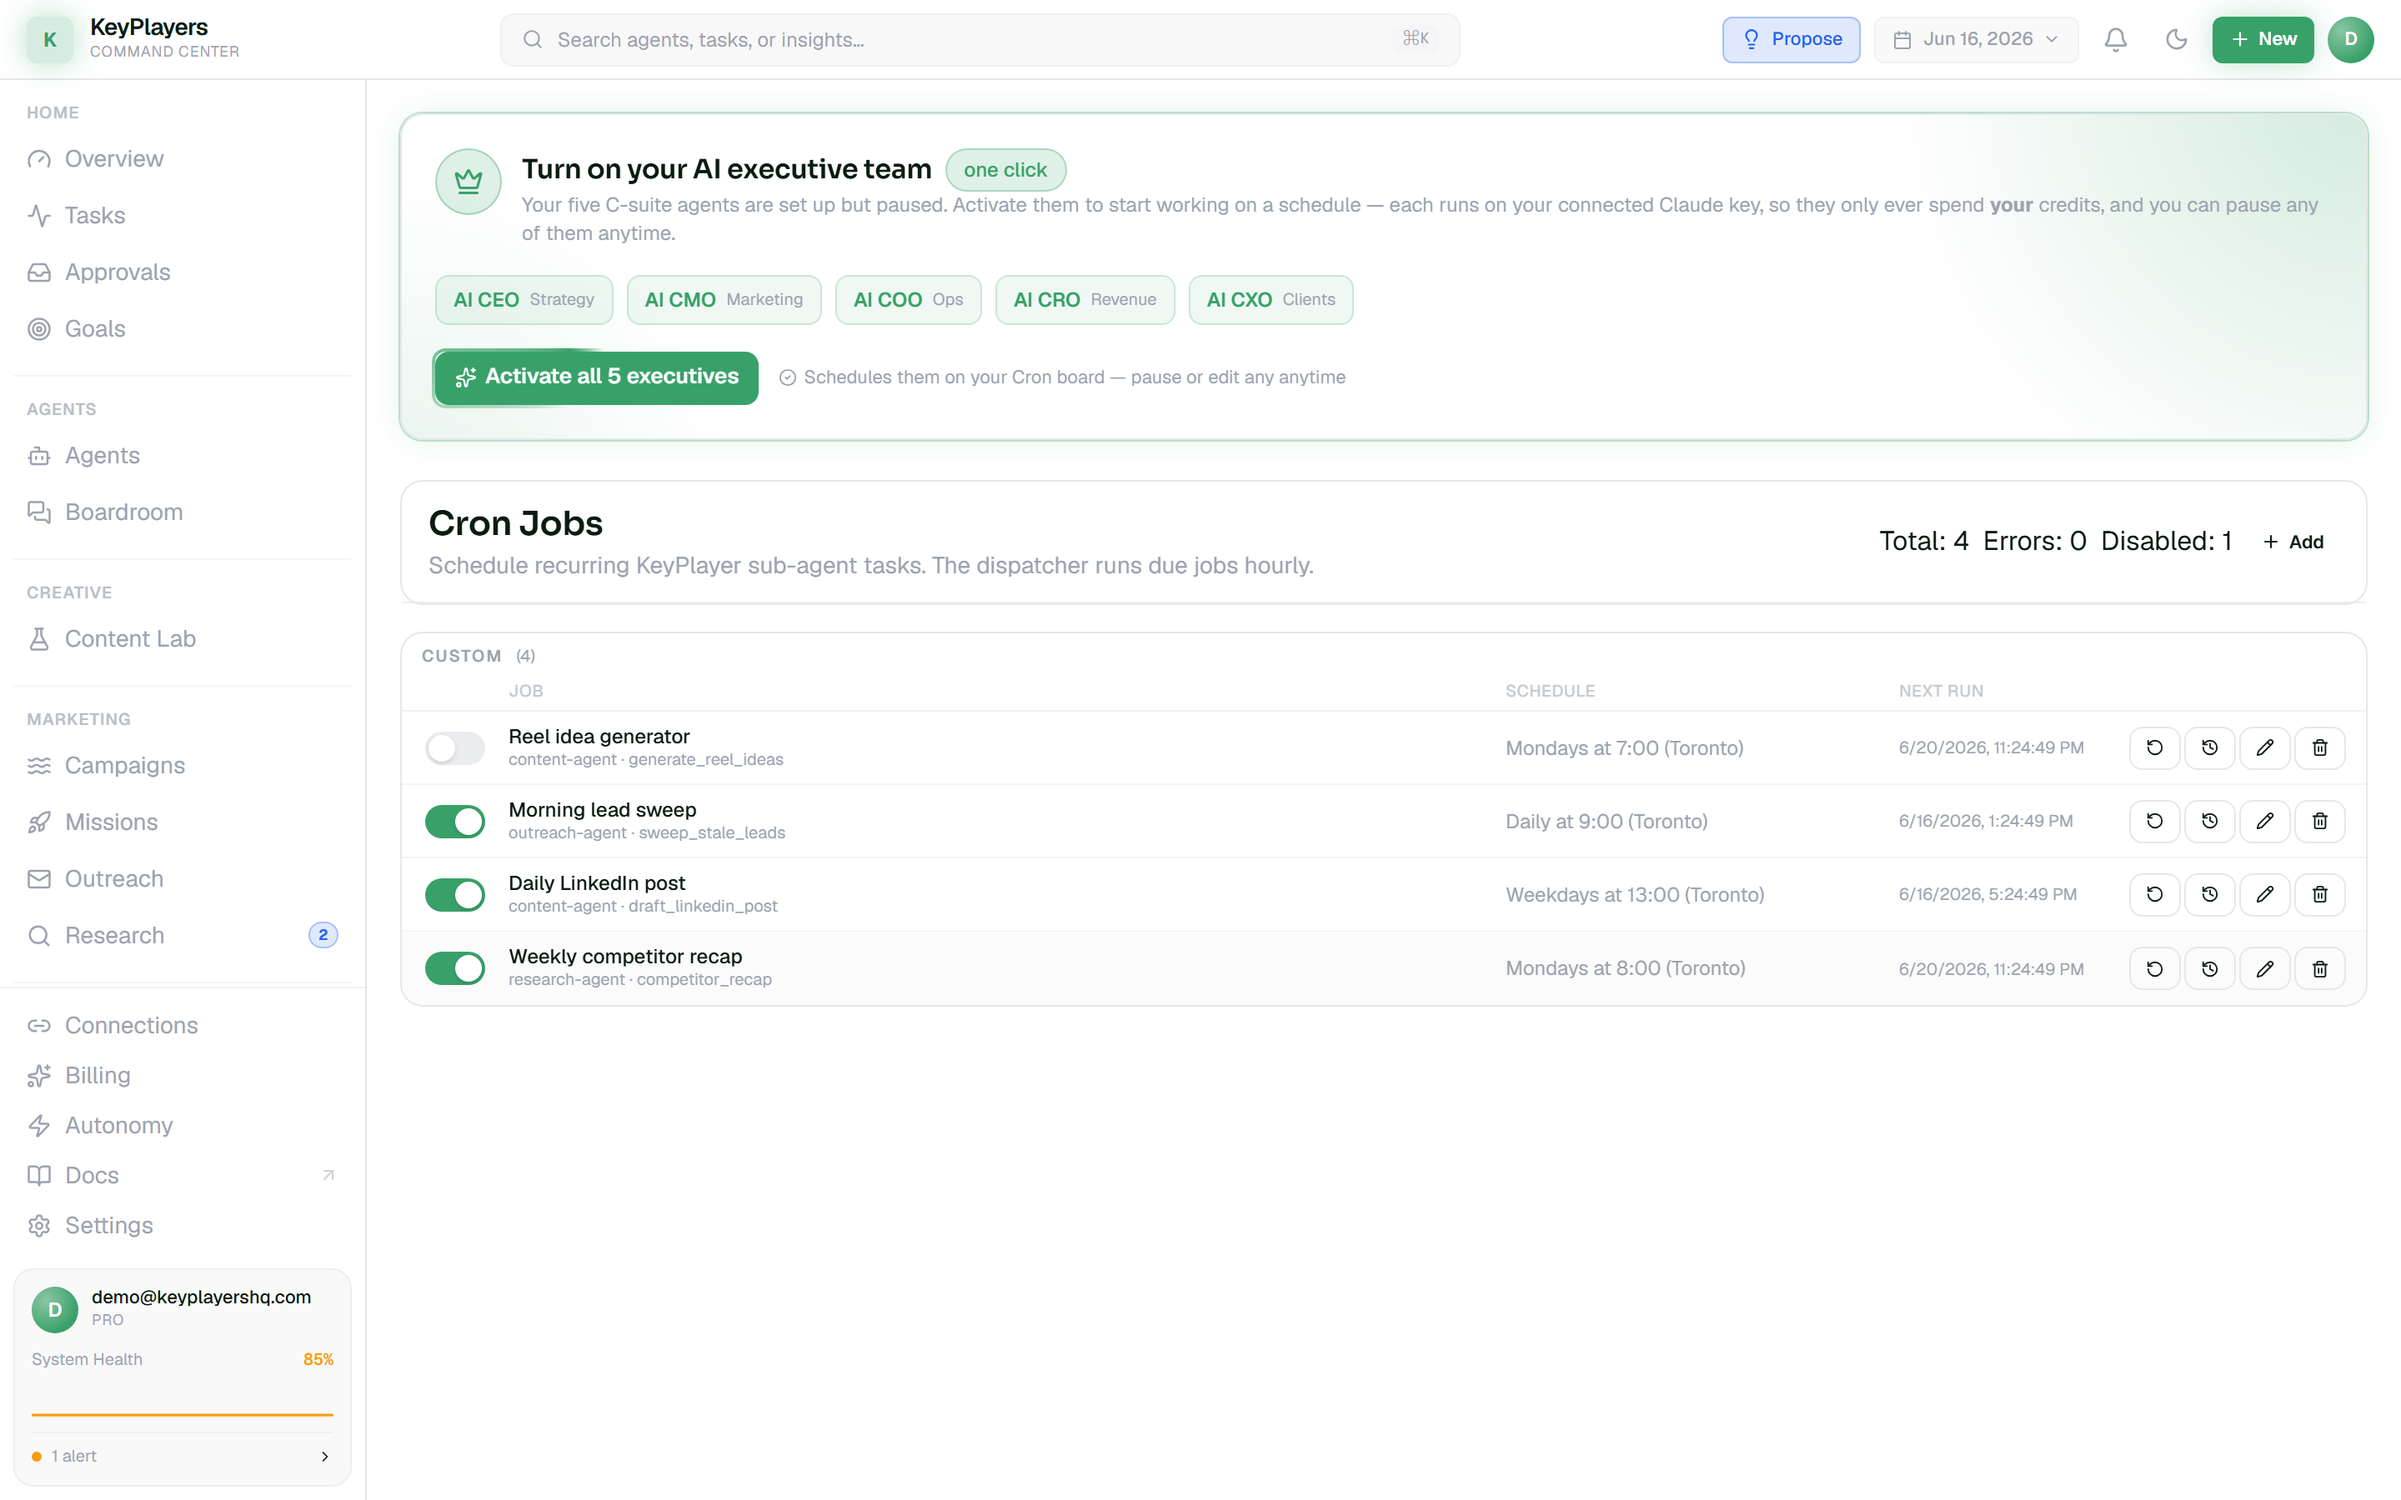
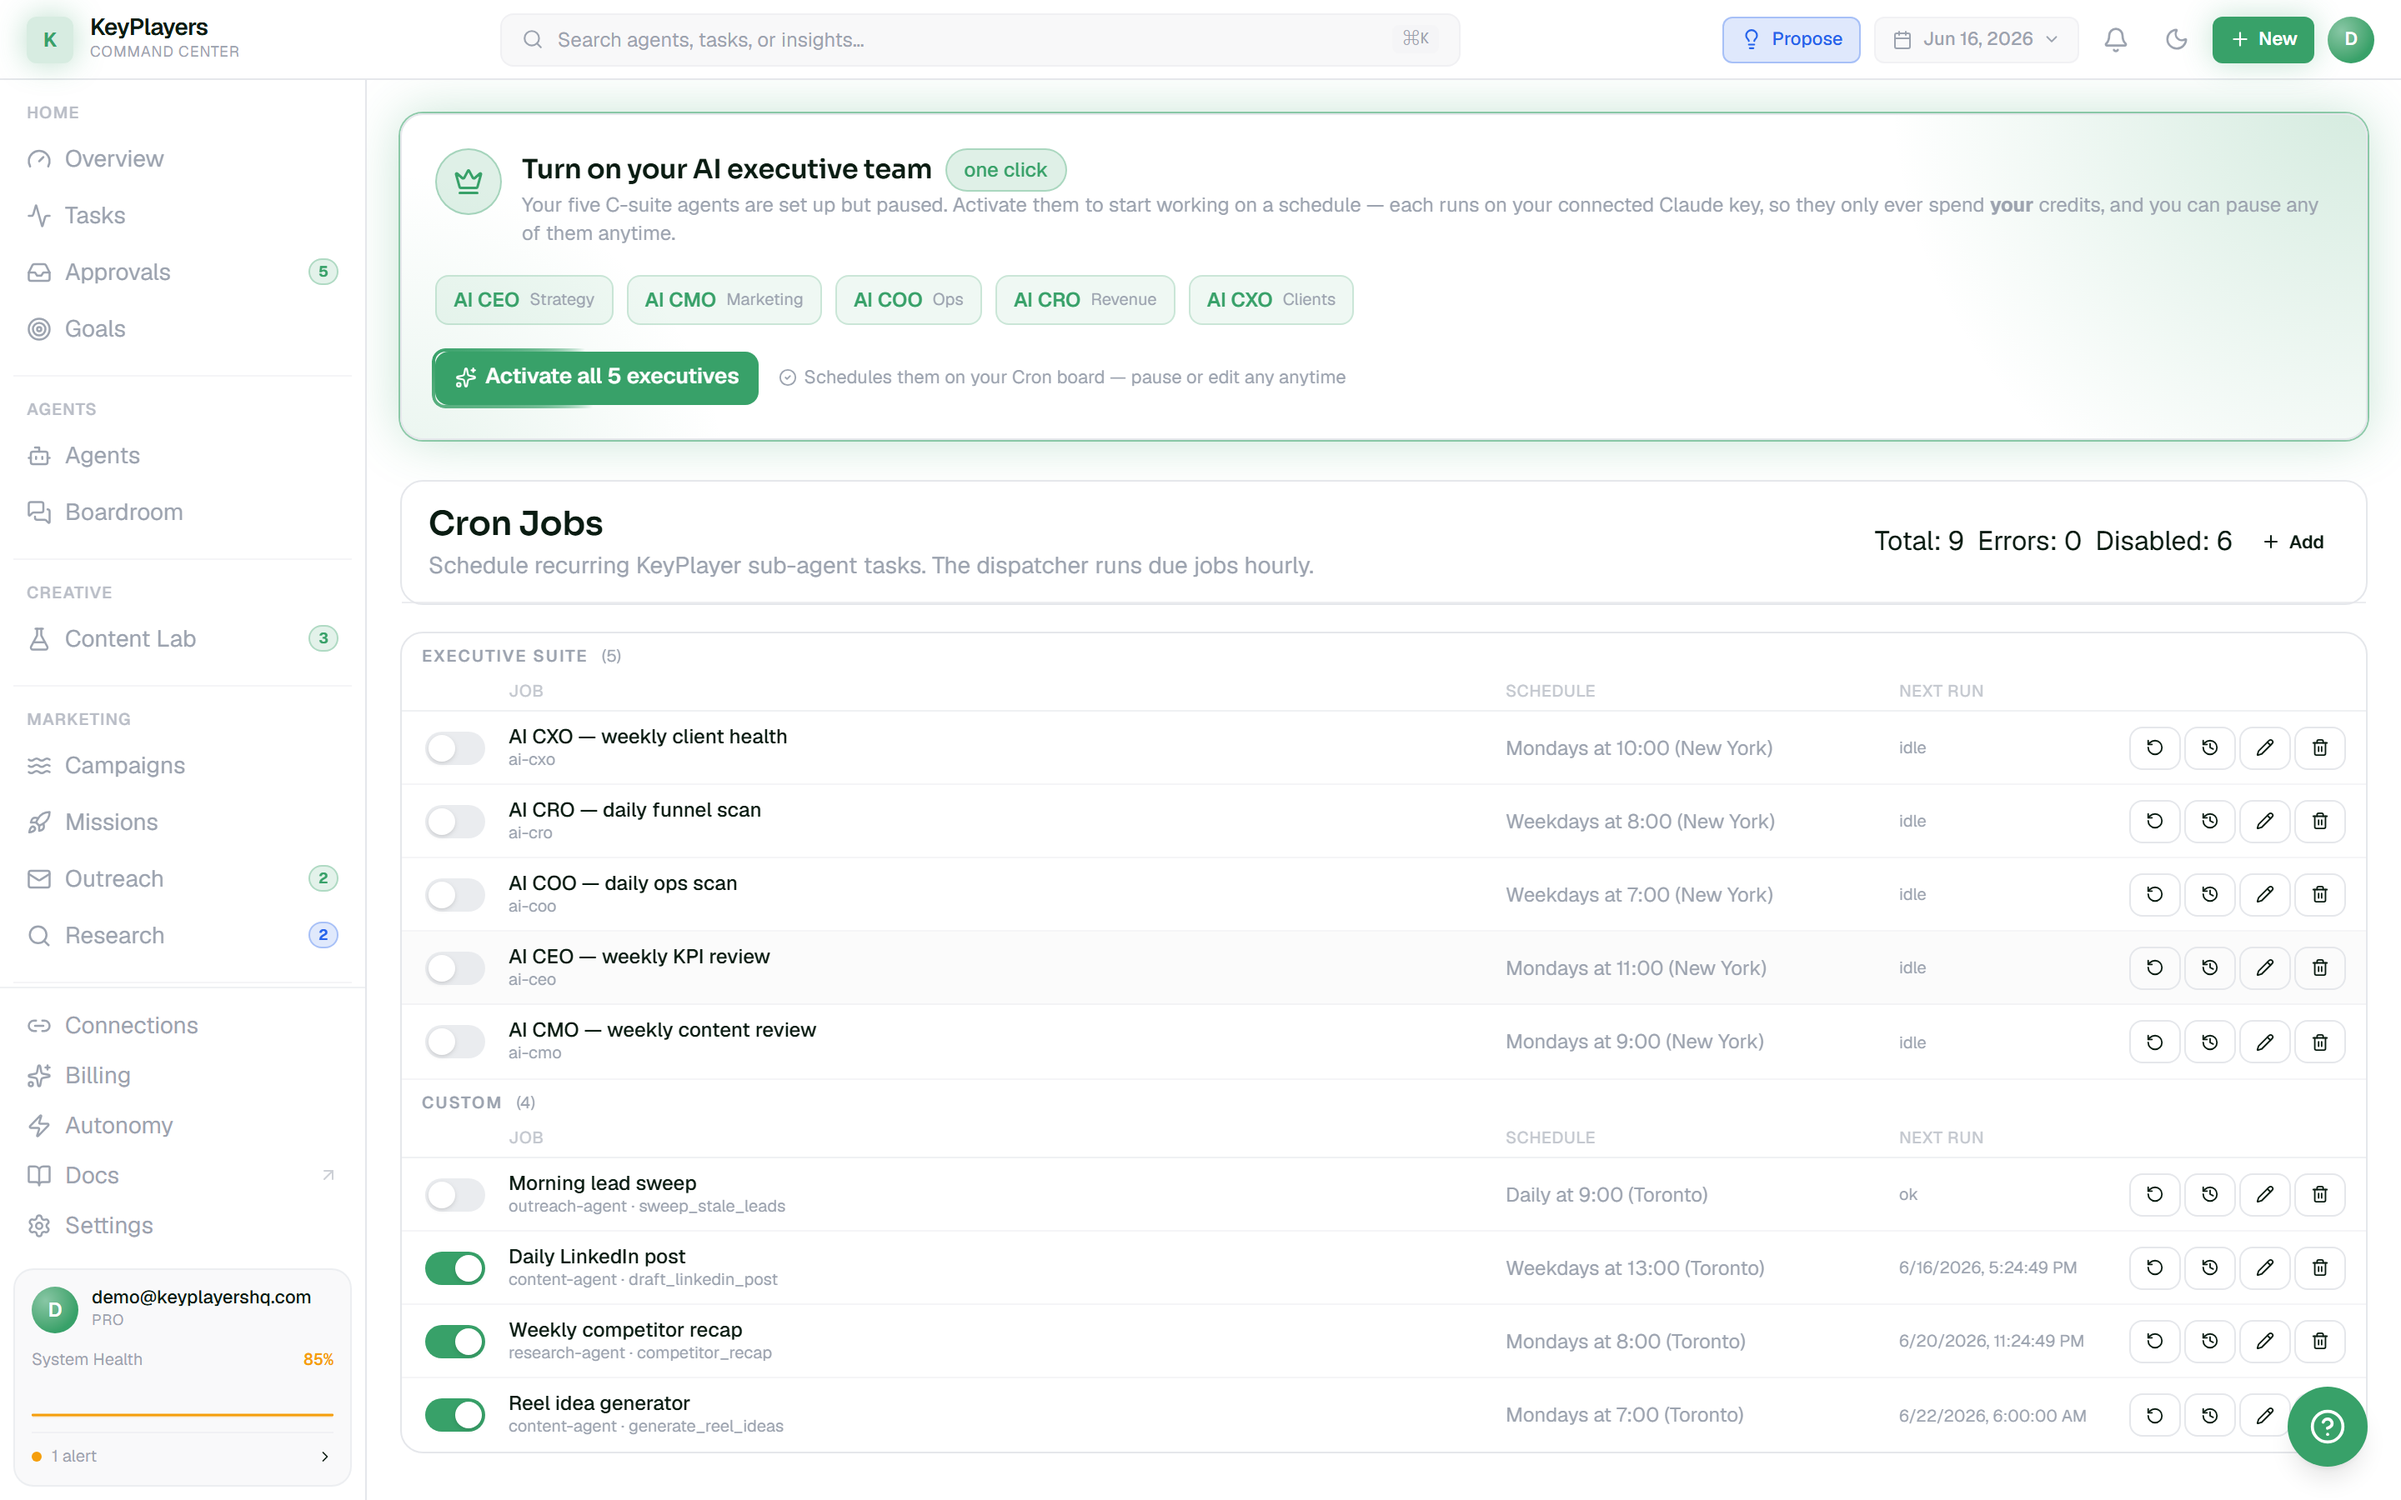
docs+demo: seed org chart (execs)+Learning+Genes+exec crons for demo; add Strategy Genes & Learning docs; capture org-chart, learning, genes, populated cron, clean script studio + green-label teleprompter

diff --git a/src/lib/docs-nav.ts b/src/lib/docs-nav.ts
@@ -48,6 +48,8 @@ export const DOCS_NAV: DocNavGroup[] = [
     group: 'Setup & control',
     items: [
       { slug: 'drafts', title: 'Drafts & Approvals', blurb: 'The approval queue — nothing ships without you; publishing is real' },
+      { slug: 'learning', title: 'Learning', blurb: 'How every agent run is scored and the squad leans toward what works' },
+      { slug: 'strategy-genes', title: 'Strategy Genes', blurb: 'The plain-English lessons your agents learn — review, approve, and apply them' },
       { slug: 'cron', title: 'Scheduled Jobs', blurb: 'Run agents on a recurring schedule, in plain English' },
       { slug: 'usage', title: 'Usage & Spend', blurb: 'Track what your agents cost and set a daily token budget' },
       { slug: 'your-data', title: 'Your Data', blurb: 'Export everything your workspace created — your data is yours' },

diff --git a/docs/strategy-genes.md b/docs/strategy-genes.md
@@ -1,0 +1,66 @@
+# Strategy Genes
+
+As your agents work, they don't just produce — they *learn*. **Strategy Genes** are the lessons they've picked up about what works for **this** business, written in plain English you can read at a glance: *"Lead with the number," "Hook in the first sentence," "Keep CTAs to one line."* Each gene is a small, reusable rule, and the ones you approve get woven into your agents' instructions so the whole squad applies the lesson — not just the agent that discovered it.
+
+![Strategy Genes — the lessons your agents have learned](images/genes-1.png)
+
+Strategy Genes is a **Pro** feature, found at **Genes** in the left navigation.
+
+---
+
+## What a gene is
+
+A gene is one short, plain-language lesson about what tends to win for your business. Every gene carries a little context so you can judge it:
+
+- **The lesson** — the rule itself, in a sentence (e.g. *"Open with a concrete result, not a question"*).
+- **Status** — where the gene is in its life: **proposed**, **active**, or **retired** (more on these below).
+- **Track record** — how it's actually performed: how many times it's been **tried**, how many of those were **wins**, and its **mean reward** (the average score of the runs that used it).
+- **Source** — where it came from: **you wrote it**, or the [learning](./learning.md) loop **proposed it** after noticing a pattern in your results.
+
+Because every gene shows its track record, you're never asked to trust a rule blind — you can see whether it's earning its place.
+
+---
+
+## Proposed vs. active
+
+The most important distinction on the page is between a gene that's merely *suggested* and one that's actually *in use*:
+
+- **Proposed** — a candidate lesson, waiting for you. It came either from you or from the learning loop spotting a pattern, but it is **not** influencing any agent yet. Proposed genes are inert until you say otherwise.
+- **Active** — an approved gene that **is** being applied. Active genes get injected into the relevant agents' instructions, so the next time those agents run, they follow the lesson automatically.
+- **Retired** — a gene you've taken out of rotation. It stops influencing agents but stays on record, so you keep the history (and can bring it back later).
+
+Nothing a gene "learns" reaches your agents until **you** promote it from proposed to active. You're always the one who decides which lessons the squad adopts.
+
+---
+
+## How it works
+
+1. **Lessons accumulate.** As runs complete and get scored by the [learning](./learning.md) loop, patterns emerge — and the strongest ones surface as **proposed** genes. You can also write your own at any time.
+2. **You review.** Open **Genes** and read what's proposed. Each gene shows its track record so you can tell a real pattern from a fluke.
+3. **You approve the good ones.** Promote a proposed gene to **active** and it's immediately folded into the instructions of the agents it applies to.
+4. **The squad applies it.** From that point on, the relevant agents work with the lesson baked in — every researcher, writer, and outreach agent it touches.
+5. **You prune what stops working.** If an active gene's track record slips, **retire** it. The squad goes back to working without it on the next run.
+
+---
+
+## Staying in control
+
+Strategy Genes is built so the agents can suggest, but you decide. The safety controls:
+
+- **Approval required.** A proposed gene changes nothing until you make it active.
+- **Retire any time.** Pull an active gene out of rotation with one click; its lesson stops being injected on the next run.
+- **Master kill switch.** One toggle disables *all* gene influence at once — every agent immediately goes back to its base instructions, no matter how many genes are active.
+- **Revert.** Roll back to a previous state if a recent change didn't land the way you wanted.
+
+These work alongside the [autonomy gate](./concepts.md#the-autonomy-gate): autonomy controls how much agents can *do* on their own, while Strategy Genes controls what they've *learned* to do it better. Even at the same autonomy level, nothing an agent learns goes live without your sign-off.
+
+---
+
+## Good to know
+
+- **Start by reading, not approving.** Let a few proposed genes build a track record before you promote them — the tries/wins counts get more trustworthy with use.
+- **A gene is only as good as its record.** Lean on the **mean reward** and the **wins-out-of-tries** count, not just whether the lesson "sounds right."
+- **Write your own.** If you already know a rule that works for your brand, add it directly as a gene and make it active — you don't have to wait for the loop to discover it.
+- **Retire freely.** Retiring isn't deleting. The gene's history stays, and you can reactivate it later if conditions change.
+- **The kill switch is your panic button.** If results ever feel off and you suspect a learned rule, flip the master switch to take every gene out of the loop in one move, then re-enable the ones you trust.
+- **It's powered by Learning.** Strategy Genes is the visible, editable layer on top of the scoring engine described in [Learning](./learning.md) — that's where the patterns behind your proposed genes come from.

diff --git a/docs/learning.md b/docs/learning.md
@@ -1,0 +1,53 @@
+# Learning
+
+Your agents get better the more they work — and **Learning** is where you can see it happen. Every time an agent finishes a run, that run gets a **score**: did you approve it, how well did it perform, and how reliably did it run? Over time those scores add up into a track record for each agent, and the system leans toward the approaches that are working. It's a simple reward-based learning loop, and it's the engine behind [Strategy Genes](./strategy-genes.md).
+
+![Learning — how each agent is scored and improving over time](images/learning-1.png)
+
+Find it at **Learning** in the left navigation.
+
+---
+
+## How a run gets scored
+
+When an agent run completes, it earns a **reward** — a single score that rolls up three things:
+
+- **Did you approve it?** Work you approve scores higher than work you reject. Your decisions in [Drafts & Approvals](./drafts.md) are the strongest signal the system has — you're effectively teaching it what "good" looks like.
+- **How did it perform?** Where there's a measurable result — a draft that got published, a goal it moved forward — that feeds the score.
+- **How reliable was it?** A clean run that finished without errors scores better than one that stumbled, retried, or failed partway.
+
+You don't have to grade anything by hand. Approving and rejecting drafts as you normally would *is* the grading.
+
+---
+
+## What you see
+
+The Learning page turns those scores into a track record you can actually read:
+
+- **Runs scored** — how many completed runs have been graded.
+- **Mean reward** — the average score across them, so you can see the overall trend at a glance.
+- **By-role breakdown** — the same numbers split out per role, so you can tell which parts of your squad are pulling their weight and which need attention. A researcher and a content writer get judged on their own terms.
+
+Watching the mean reward climb over time is the clearest sign that the loop is doing its job — your agents are converging on what works for your business.
+
+---
+
+## How it improves the team
+
+Scoring isn't just a report card — it changes what happens next:
+
+1. **Runs get scored** as they complete, building each agent's track record.
+2. **Patterns surface.** When a particular approach keeps scoring well, the system notices.
+3. **Lessons get proposed.** The strongest patterns become candidate [Strategy Genes](./strategy-genes.md) — short, plain-English rules you can review and approve.
+4. **Approved lessons spread.** Once you make a gene active, it's folded into the relevant agents' instructions, so the whole squad benefits from what one run discovered.
+
+So Learning is the quiet engine underneath: it measures, and [Strategy Genes](./strategy-genes.md) is where those measurements turn into rules you control.
+
+---
+
+## Good to know
+
+- **Your approvals do the teaching.** The single biggest thing you can do to steer the loop is approve and reject drafts thoughtfully — that's the clearest signal it learns from.
+- **Give it time.** Mean reward is most meaningful once each agent has a few scored runs behind it; early numbers swing around.
+- **Read it by role.** The by-role breakdown is where the useful detail lives — it tells you *which* kind of work is improving, not just that things are.
+- **It feeds Strategy Genes.** If you want to act on what Learning reveals, head to [Strategy Genes](./strategy-genes.md) — that's where patterns become rules your agents apply.
